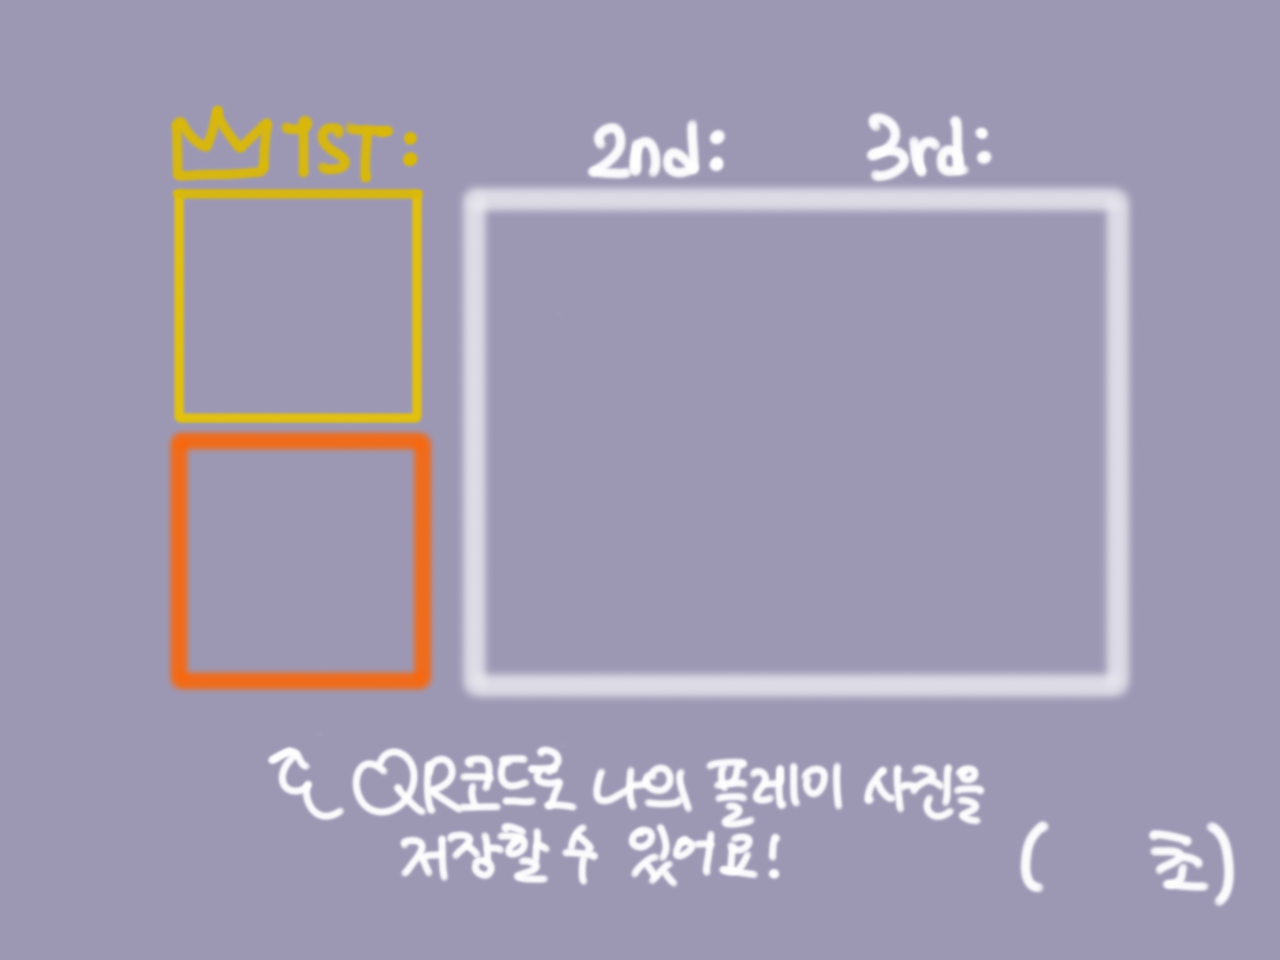
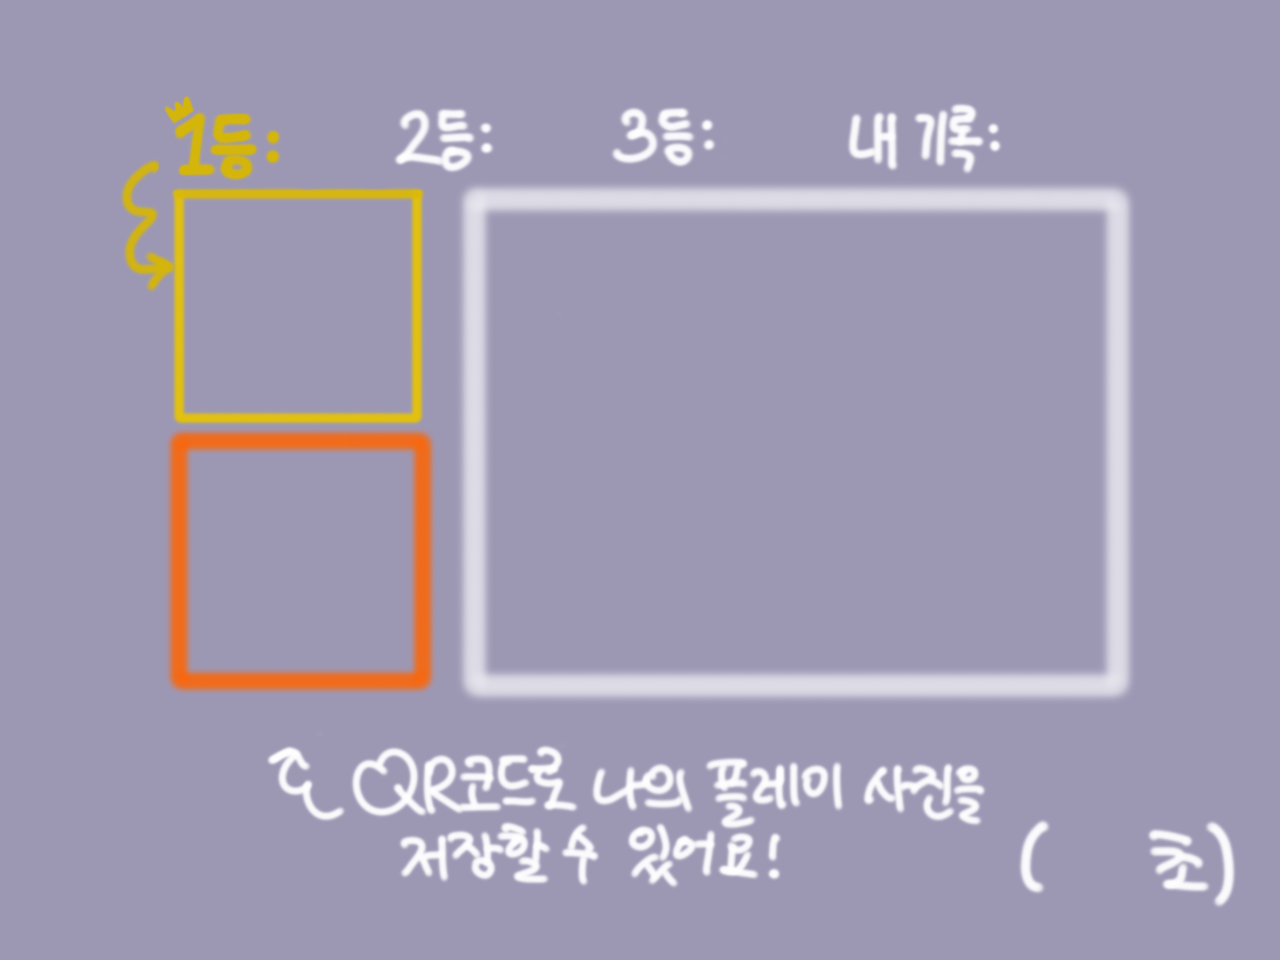
말바꿈
한글로 ui바꿈

Changed region(s): [[0.0938, 0.0938, 0.4062, 0.3125], [0.6562, 0.0938, 0.7812, 0.1875], [0.4375, 0.0938, 0.5625, 0.1875]]

diff --git a/NEW_INTEGRATE/tempscreen.py b/NEW_INTEGRATE/tempscreen.py
@@ -151,7 +151,7 @@ def gameScreen(StoU,recvXY):
 
     arrow = pygame.image.load('./ui_imgs/arrow.png')
     arrow = pygame.transform.scale(arrow, (int(100), int(100)))
-    select_bg = pygame.image.load('./ui_imgs/select_background.png')
+    select_bg = pygame.image.load('./ui_imgs/select_mode.png')
     select_bg = pygame.transform.scale(select_bg, (int(W), int(H)))
 
     runned = False
@@ -244,8 +244,8 @@ def gameScreen(StoU,recvXY):
                 play_start = True
 
             else:
-                textSurfaceObj = fontObj.render("SELECT TIME:"+str(select_limit_time), True, GREEN)
-                screen.blit(textSurfaceObj, (10,10))
+                textSurfaceObj = fontObj.render(str(select_limit_time), True, BLACK)
+                screen.blit(textSurfaceObj, (140,35))
                 
                 pygame.draw.rect(screen, RED, [int((W-innerW)/2), H-innerH,innerW/3, H],2) #x,y,w,h [FIREWORK]
                 pygame.draw.rect(screen, PINK, [int((W-innerW)/2)+innerW/3, H-innerH, innerW/3, H],2) # [DRAWING]

diff --git a/NEW_INTEGRATE/funcFirework.py b/NEW_INTEGRATE/funcFirework.py
@@ -184,8 +184,9 @@ class FireFunc:
             '''
 
 
-        text1 = self.myfont.render("Popped Fireworks: " + str(self.points.p_fw),20,(0,128,0)) # 터뜨린 개수 출력
-        self.screen.blit(text1,(10,10))
+        text1 = self.myfont.render(str(self.points.p_fw),20,(255,255,255)) # 터뜨린 개수 출력
+        self.screen.blit(text1,(27,28))
+        self.screen.blit(pygame.image.load("firework_imgs/popped_fireworks.png"),(66,28))
                                     
         self.screen.blit(self.bgimage,(0,0))
         

diff --git a/NEW_INTEGRATE/funcVirus.py b/NEW_INTEGRATE/funcVirus.py
@@ -175,8 +175,9 @@ class VirusFunc:
         self.screen.blit(self.back_png,(0,0))
 
         #font size was 10
-        text1 = self.myfont.render("Dead viruses: " + str(self.d_virus),20,(0,128,0))
-        self.screen.blit(text1,(10,10))
+        text1 = self.myfont.render(str(self.d_virus),20,(255,255,255))
+        self.screen.blit(text1,(27,28))
+        self.screen.blit(pygame.image.load("./virus_imgs/dead_virus.png"),(66,28))
         
 ##        for event in pygame.event.get(): #종료버튼
 ##            if event.type == QUIT:
